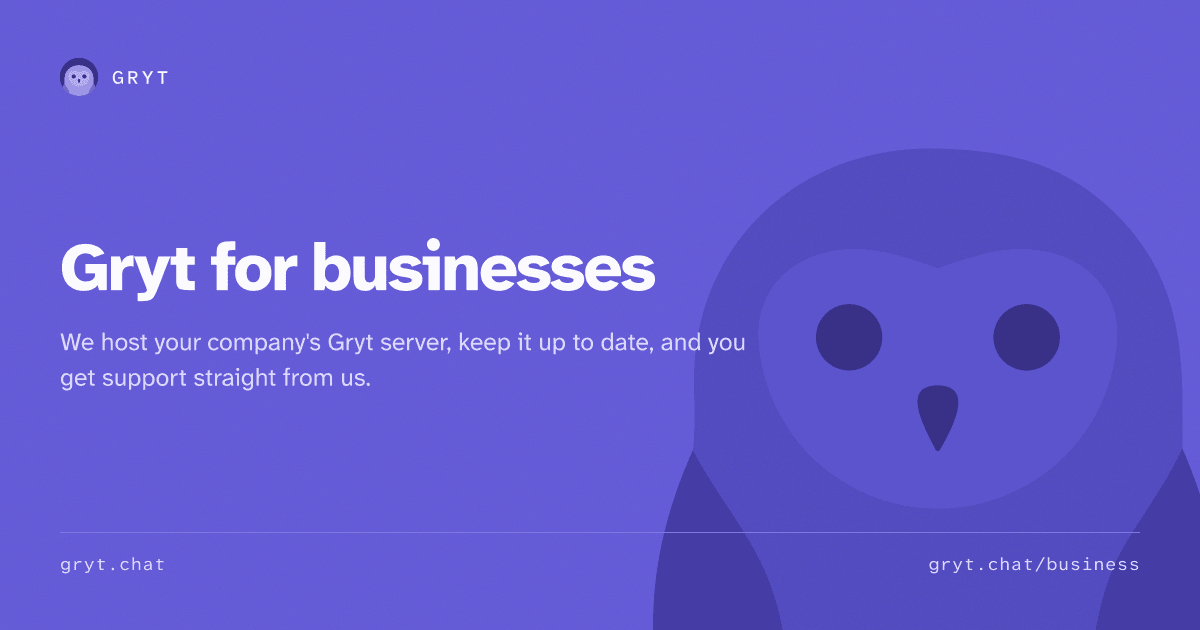
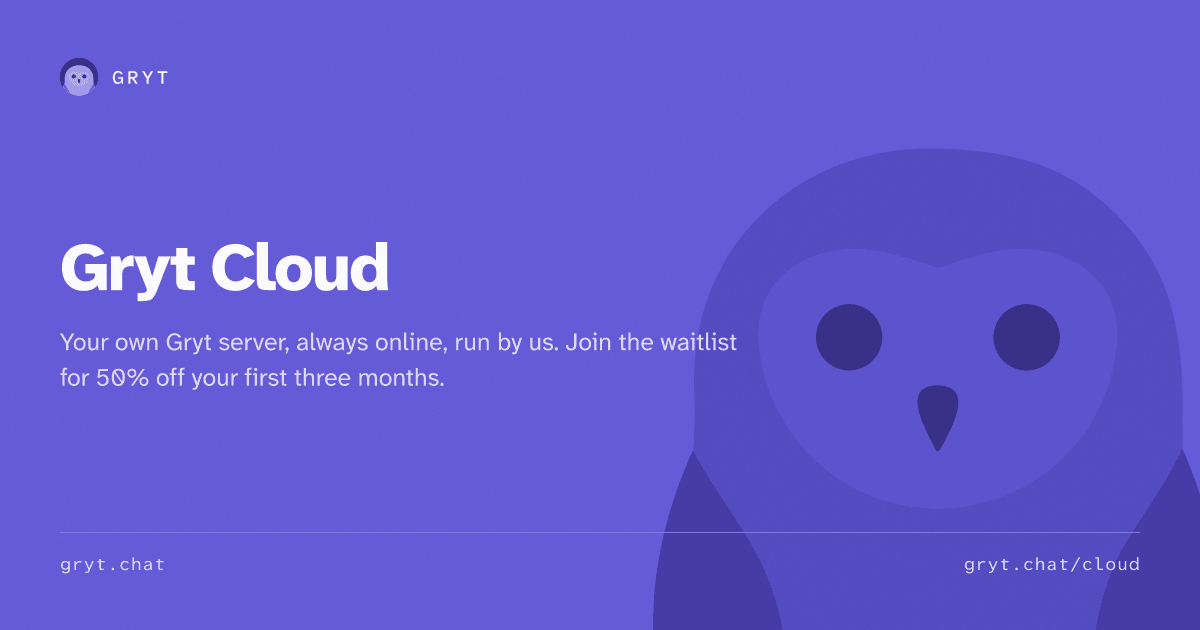
chore(site): /cloud copy pass, a share card of its own, and the waitlist offer in the terms
Copy: no self-answered question, no colon reveal, no 'in a minute' nobody has timed. The terms say what the 50% covers. Terms and privacy dates move to today.

diff --git a/src/pages/CloudPage.tsx b/src/pages/CloudPage.tsx
@@ -18,10 +18,10 @@ const WAITLIST = "https://reports.gryt.chat/v1/waitlist";
 const BENEFITS: [IconType, string, string][] = [
   [PiUsersThreeDuotone, "Your friends, any time", "They can hang out, talk and play even when you're offline."],
   [PiArrowsClockwiseDuotone, "Always up to date", "Every new Gryt release goes on for you. You never run an old version."],
-  [PiLightningDuotone, "Ready in a minute", "No ports to open, no router settings, no Docker. Pick a name and it's there."],
+  [PiLightningDuotone, "Nothing to set up", "No ports to open, no router settings, no Docker. You pick a name and the server is there."],
   [PiLockKeyDuotone, "You decide who gets in", "Invite only, ask to join, or open to anyone. Change it whenever you like."],
   [PiGlobeDuotone, "Your own domain", "Use the address we give you, or your own, like yourdomain.com. Invites use it too."],
-  [PiChatsCircleDuotone, "Help from the people who build it", "Something wrong? You write to us, and we're the ones who fix it."],
+  [PiChatsCircleDuotone, "Help from the people who build it", "If something breaks, you write to us and we fix it."],
 ];
 
 const COMPARE: [string, string, string][] = [
@@ -125,7 +125,7 @@ function Plans() {
       </div>
       <p className={styles.includes}>
         Every plan is always online and always up to date, with your own domain, notifications on phones, and you deciding
-        who gets in. The people count is a guide: nobody gets turned away. Prices include VAT.
+        who gets in. The people count is a guide, and nobody gets turned away. Prices include VAT.
       </p>
     </>
   );
@@ -292,7 +292,7 @@ export function CloudPage() {
       <section className={styles.section}>
         <div className={styles.in}>
           <p className={styles.eyebrow}>How it&rsquo;ll work</p>
-          <h2 className={styles.h2}>Three steps, about a minute</h2>
+          <h2 className={styles.h2}>Three steps</h2>
           <ol className={styles.steps}>
             {STEPS.map((text, i) => (
               <li key={text}>
@@ -328,7 +328,7 @@ export function CloudPage() {
             <span className={styles.note}>business@gryt.chat</span>
           </div>
           <p className={styles.note} style={{ marginTop: 20 }}>
-            Already running Gryt yourself? Business push and support are available for your own server too.{" "}
+            Running Gryt yourself? We also sell business push and support for your own server.{" "}
             <a href={`${MAIL}?subject=Business%20push%20and%20support`}>Ask about a plan</a>.
           </p>
         </div>

diff --git a/src/pages/TermsOfUse.tsx b/src/pages/TermsOfUse.tsx
@@ -146,6 +146,20 @@ export function TermsOfUse() {
           content beyond what is necessary to operate the authentication service.
         </p>
 
+        <h2>The Gryt Cloud waitlist offer</h2>
+        <p>
+          If you join the Gryt Cloud waitlist on gryt.chat/cloud before Gryt Cloud
+          opens, you get 50% off the first three months of one Gryt Cloud server.
+          It applies to monthly and yearly billing: on yearly, the discount comes
+          off the first three months of the year. We send you a code in the email
+          when Gryt Cloud opens. One code per email address, and it can&rsquo;t be
+          exchanged for money.
+        </p>
+        <p>
+          Prices and plans can still change before launch. The discount is taken
+          from the price on the day you buy.
+        </p>
+
         <h2>Disclaimer of warranties</h2>
         <p>
           Our services are provided <strong>"as is"</strong> and{" "}

diff --git a/src/lib/pages.ts b/src/lib/pages.ts
@@ -248,13 +248,13 @@ export const STATIC_PAGES: StaticPage[] = [
     title: "Terms of Use",
     description:
       "The terms covering the services we operate. Community servers set their own on top of these.",
-    updated: "2026-09-03",
+    updated: "2026-11-11",
   },
   {
     path: "privacy",
     title: "Privacy Policy",
     description: "How Gryt handles your data. We collect as little as we can get away with.",
-    updated: "2026-09-16",
+    updated: "2026-11-11",
   },
   {
     path: "community-guidelines",
